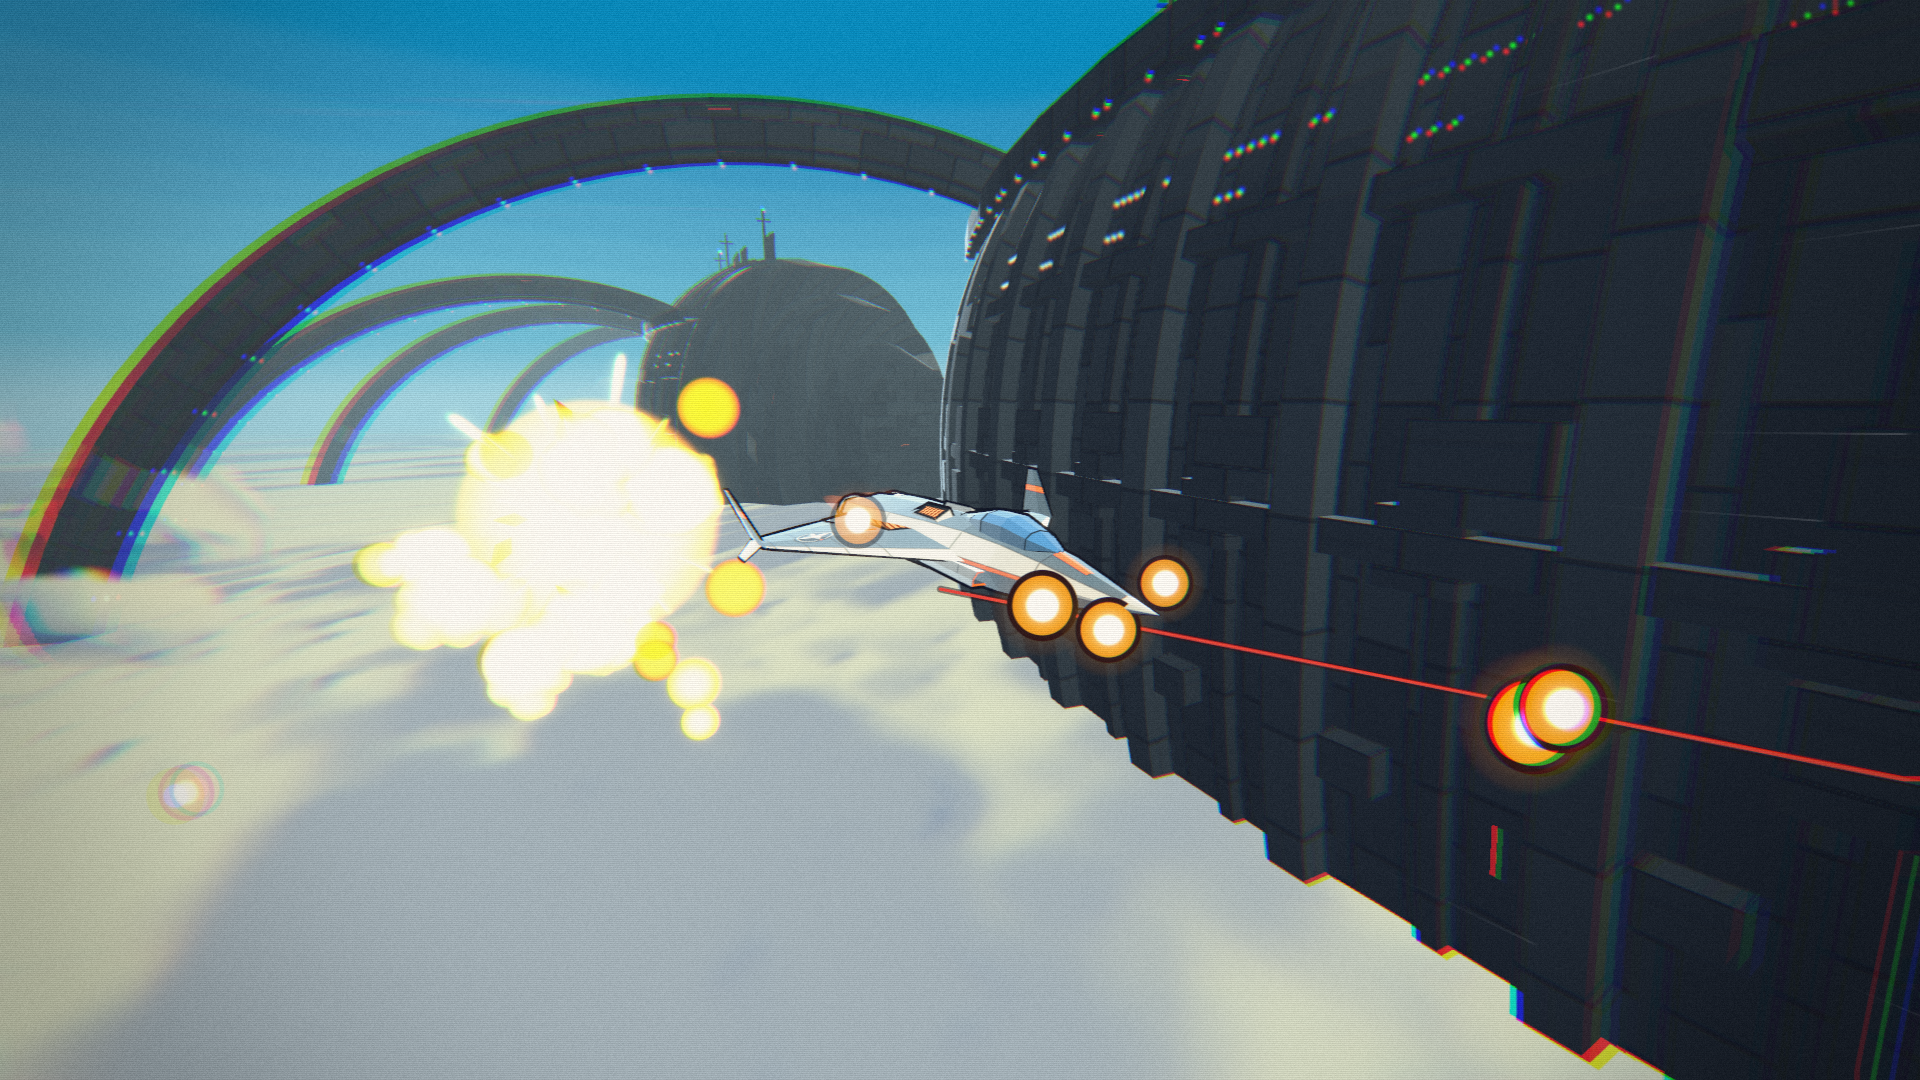
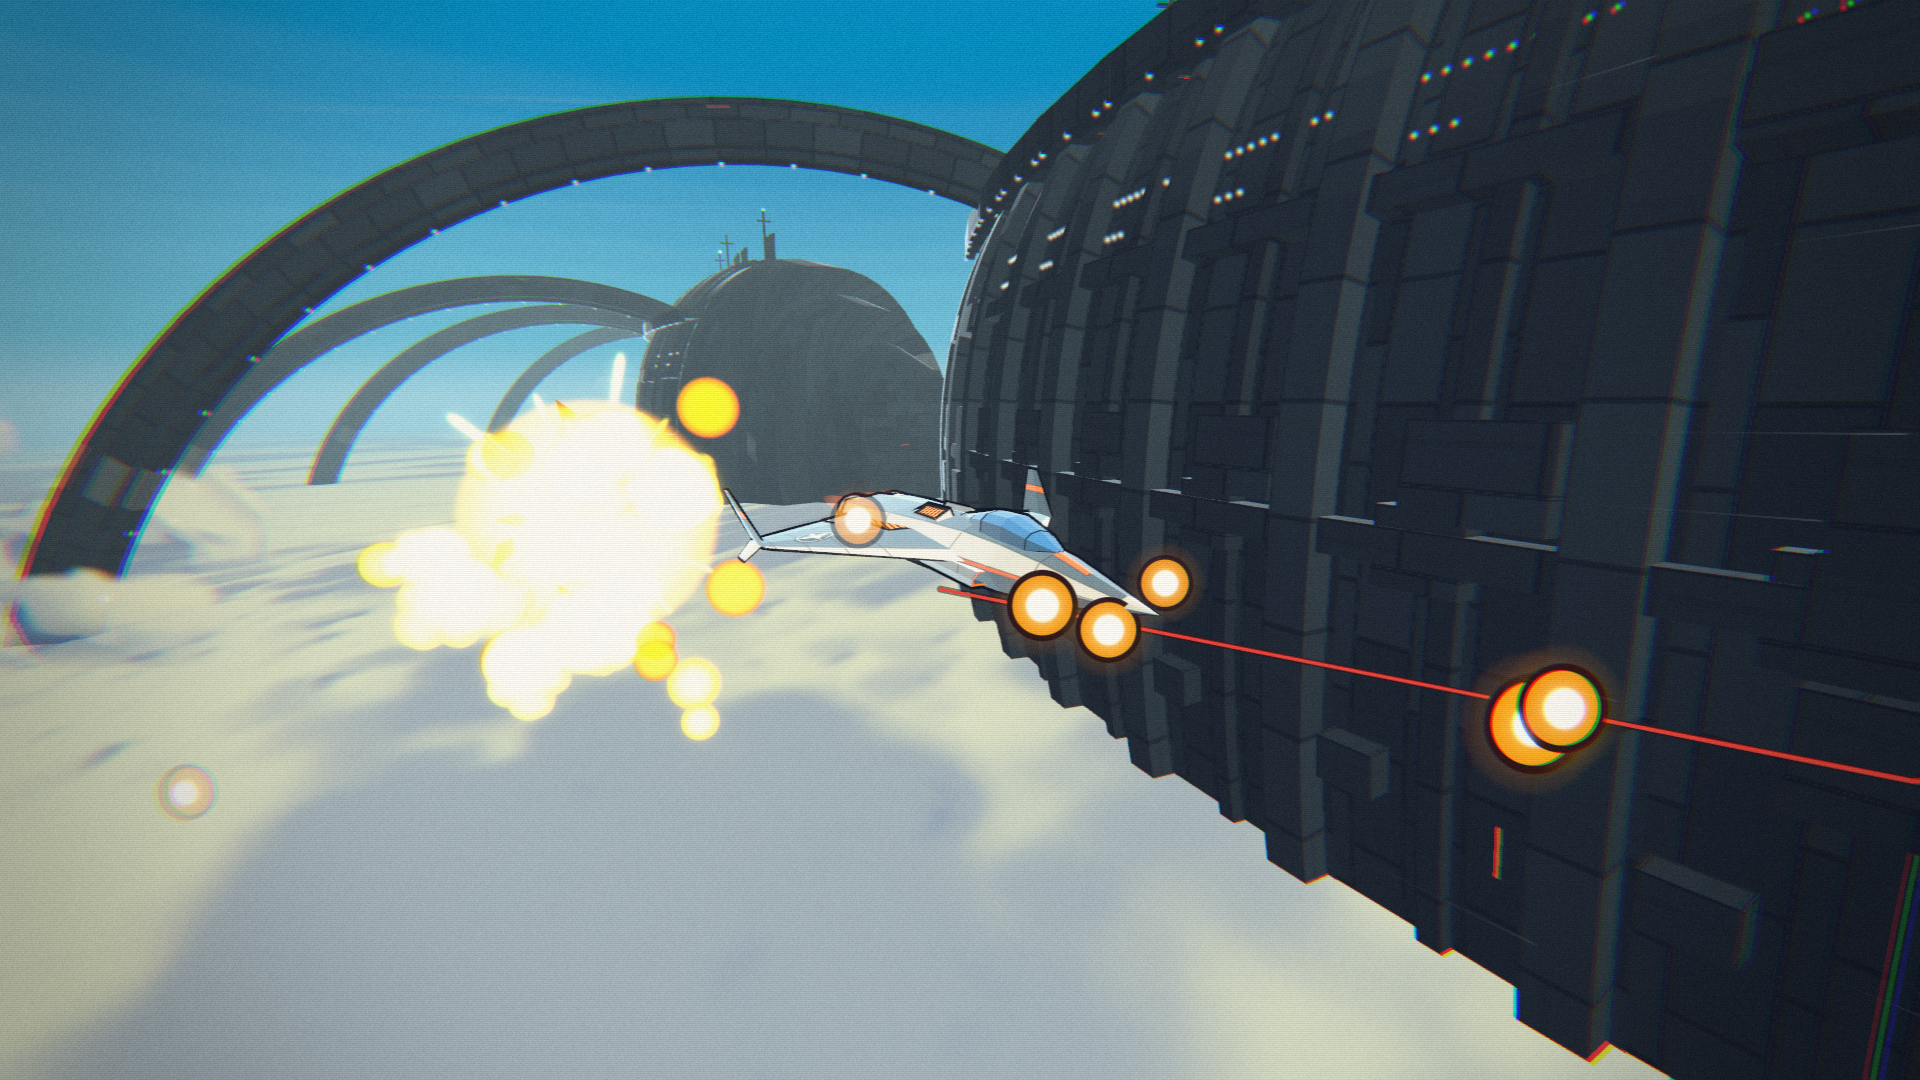
CONTRAIL: round-5 look fixes (lighter chroma pulses, darker Violet Tide sea and fog)
Claude-Session: https://claude.ai/code/session_01Sb5vk8dPPmr8ekyxShV53k

diff --git a/contrail/src/style/tokens.ts b/contrail/src/style/tokens.ts
@@ -168,7 +168,7 @@ export const stages: Record<'cloudgate' | 'violetTide' | 'wreckfield', StageLook
     ambientSky: '#3A2E6E',
     ambientGround: '#5A2F58',
     ambientIntensity: 0.8,
-    fog: { color: '#5E3A74', density: 0.0014, heightFalloff: 0.025, far: '#5C2A55' },
+    fog: { color: '#3E2656', density: 0.0014, heightFalloff: 0.025, far: '#5C2A55' },
     split: {
       dominant: ['sunsetZenith', 'sunsetIndigo'],
       secondary: ['sunsetCloudDark', 'sunsetMagenta'],
@@ -247,7 +247,7 @@ export const post = {
   exposure: 1.0,
   bloom: { threshold: 0.85, strength: 0.6, radius: 0.6 },
   vignette: 0.25,
-  chroma: { base: 0.001, hit: 0.006, ring: 0.008 },
+  chroma: { base: 0.001, hit: 0.003, ring: 0.004 },
   scanlines: { lines: 540, opacity: 0.06 },
   grain: 0.04,
   grade: { lift: '#0A0C18', gamma: 1.0, gain: '#FFF8EC', saturation: 1.08 },

diff --git a/contrail/src/gen/world/sky/params.ts b/contrail/src/gen/world/sky/params.ts
@@ -339,11 +339,11 @@ const vtSea: CloudSeaParams = {
   scale: 300,
   stretchX: 2.6,
   bump: 12,
-  lit: ['sunsetCloudDark', 'sunsetMagenta', 0.3],
+  lit: ['sunsetCloudDark', 'sunsetMagenta', 0.16],
   mid: 'sunsetCloudDark',
   shadow: ['sunsetCloudDark', 'emblemBlack', 0.5],
   rim: ['sunsetHorizon', 'sunsetMagenta', 0.3],
-  backlit: 0.5,
+  backlit: 0.3,
   drift: 1,
   contrast: 2.0,
 };

diff --git a/contrail/Docs/reviews/M2_M4_round4.md b/contrail/Docs/reviews/M2_M4_round4.md
@@ -1,0 +1,136 @@
+# Reviewer — M2 look lock + M4 peak moment (round 4)
+
+Fresh-context review based only on images, the GAME_FORGE section 12 rubric and the STYLE_BIBLE "Current values" table.
+
+**Inputs opened:** all of them opened, so there are no zero scores.
+- **Captures (m2):** cloudgate_hero, cloudgate_combat, violetTide_combat, wreckfield_combat and contact (round 4 sheet, 11:26:45Z).
+- **HUD and title:** the look/approved/hud board and captures/latest/title.
+- **Progress frames:**
+  - m2/112556Z_hero and _combat, 112617Z_combat and 112628Z_combat (the round 4 set).
+  - m2/111922Z_hero and _combat, 111951Z_combat and 112002Z_combat (the round 3 set).
+  - goldpath/112306Z_p50.
+- **Approved boards:** vista-cloudgate, vfx-bullets and hud.
+- **Owner reference 07:** used for relationship only.
+
+Axis 5 (motion) and axis 8 (technical) are out of scope for these gates.
+
+**Key observation (from an md5 check):**
+- `violetTide_combat.png` is byte-identical to round 3's `111951Z_combat`.
+- `wreckfield_combat.png` is byte-identical to round 3's `112002Z_combat`.
+
+Only the two Cloudgate frames changed this round, so two of the three M4 frames carry no new work.
+
+---
+
+## Gate M2 — look lock (Cloudgate hero, environment, HUD)
+
+| # | Axis | Score | Evidence |
+|---|---|---|---|
+| 1 | Board match | **7** | The hero still matches hero B (light livery, orange nose band and vents, blue canopy, ink outline; ≈ 725-1160, 490-615), and the hull and arches match structures B. The hero-frame sky is still a flat cloud sea with no cumulus towers, far from vista-cloudgate C, even though goldpath p50 shows the game can render those towers. |
+| 2 | Readability | **5** | The hero reads at a glance in both frames. In cloudgate_combat about 25 rounds still pile onto the reticle (≈ 650-1085, 400-630), so the STRIDER named in TGT shows only as tiny darts at the edge of the pile (≈ 730, 500; 820-1000, 410-440). In the hero frame four rounds sit on top of the wing and nose (≈ 1000-1190, 560-660). |
+| 3 | Lighting & colour | **6** | Palette discipline holds: sky.day blue, cream cloud, near-black hull, warm and cool split on the craft. This round adds heavy RGB chromatic fringing, about 8-12 px of separate red, green and blue edges, on the near arch and cloud edge (hero ≈ 0-330, 100-650) and on the hull edge (≈ 1690-1760, 650-780), which reads as a post error rather than post A. The hull lights still show RGB triplets, and the hull silhouette in combat still has no rim. |
+| 4 | Depth & composition | **7** | The hero frame keeps its strong recession (hull wall, three arches, domed hull on the horizon), and the new burst now occupies the upper-left mid-ground. The lower-left ≈ 35% is still empty cloud. In combat the hull, rounds, reticle and hero still stack in one centre column. |
+| 6 | UI clarity & polish | **7** | The HUD is unchanged from round 3 and matches hud C: the perimeter is legible and the single "HULL -16" popup works. The TGT HP bar is still full at LOCK 0/6 with no lock brackets (the hud board shows red corner brackets with lock counts), and the hazard stripe under CLOUDGATE has no legend. |
+| 7 | Juice & finish | **7** | This round's gain: the hero frame now has a hot yellow burst with spark petals and ember puffs (≈ 360-760, 380-740) plus a hostile tracer, and cloudgate_combat adds an R/G/B shock ring and flame on the hero (≈ 945-1185, 540-660) next to the fired beam. There is still no enemy hit flash, player fire or speed streaks. |
+
+**Average: 39 / 6 = 6.50. No axis is below 5, but the average is under 7, so M2 FAILS.**
+
+---
+
+## Gate M4 — peak moment (wreckfield_combat boss, cloudgate_combat, violetTide_combat)
+
+| # | Axis | Score | Evidence |
+|---|---|---|---|
+| 1 | Board match | **7** | The BULWARK matches enemies B, and the twin yellow telegraph lines match vfx-beam. Violet matches vista-violet C, and its ring has three separated bands. The boss rounds are still a rigid 11 + 11 double row (≈ 725-1245, 425-545), unlike the scattered field on vfx-bullets B. |
+| 2 | Readability | **6** | The five Violet shooters are visible on the horizon (≈ 1090-1260, 480-500), and the boss silhouette is clean. But the boss rounds form a solid wall across the reticle and the boss belly, and the Cloudgate strider is still buried under its own fire. |
+| 3 | Lighting & colour | **7** | Each stage has one key light (planet upper right, low violet sun, high Cloudgate sun), and the bright-to-dark swing across stages holds. The Violet cloud sea is still a mid-value rose (lower third ≈ 30-40% luminance) against the bible's dark sunset (#5C2A55, median luminance under 6%). |
+| 4 | Depth & composition | **6** | The boss frame is unchanged: flat-on and symmetric, with bullet rows parallel to the frame. It reads as a wall, not the overhanging, cropped scale of ref 07. Violet stays well balanced. |
+| 6 | UI clarity & polish | **7** | Violet's CONTACTS 11 matches the visible enemies, and there is no damage log. The boss health sliver still sits inside the upper bullet row, over the reticle (≈ 910-1140, 457), and no combat frame shows lock brackets. |
+| 7 | Juice & finish | **6** | The Violet explosion and the new Cloudgate hit ring carry this axis. The boss frame, which should be the gate's centrepiece, still shows only a telegraph and lit emitters: no fired beam, hit flash, explosion or smoke. |
+
+**Average: 39 / 6 = 6.50. No axis is below 5, but the average is under 7, so M4 FAILS.**
+
+---
+
+## Paired comparison against round 3
+
+| Gate | Round 1 | Re-gate | Round 3 | Round 4 | Trend |
+|---|---|---|---|---|---|
+| M2 | 6.33 | 6.33 | 6.50 | **6.50** | Flat. Juice rose (+1) but lighting fell (-1) because of the new chromatic fringing. |
+| M4 | 6.00 | 6.00 | 6.50 | **6.50** | Flat. Two of the three frames are byte-identical to round 3. |
+
+**Which is better, frame by frame:**
+- **cloudgate_hero, round 4 vs 111922Z:** round 4 is better on spectacle, because the burst fills the mid-ground and the hero now sits inside the action. Round 3 is cleaner: less RGB fringing, and no rounds pasted over the hero. Net: round 4 is slightly better, provided the fringing is removed.
+- **cloudgate_combat, round 4 vs 111922Z:** round 4 is slightly better. The hero hit ring and flame are new feedback, and the pile has moved off the hero. The round pile over the reticle is essentially the same size.
+- **violetTide and wreckfield:** identical to round 3, so no change.
+
+---
+
+## Top 5 defects (ranked by visual impact)
+
+### D-1 — Boss peak frame unchanged: bullet wall, no payoff [high]
+- **Capture:** wreckfield_combat.png (byte-identical to round 3's 112002Z_combat).
+- **Expected:**
+  - A peak moment at the scale of ref 07: a fired beam or a hit on the boss (flash, sparks, smoke).
+  - Boss fire as a scattered field per vfx-bullets B.
+  - A boss framed off-axis so it overhangs the frame.
+- **Actual:**
+  - A symmetric flat-on boss.
+  - An 11 + 11 rigid double row of rounds (≈ 725-1245, 425-545) over the reticle.
+  - A telegraph only, with no fired beam or hit.
+  - The HP sliver buried in the upper row.
+- **Suggested fix:**
+  - Capture at the moment the beam fires, or during the boss's hit reaction.
+  - Break the fire pattern into staggered arcs with depth spread.
+  - Tilt or offset the camera so a wing crops the frame edge.
+  - Move the boss HP bar to the top band, or above the boss.
+- **Owner lane:** Director/capture (moment choice), plus the enemies and vfx lanes.
+
+### D-2 — Cloudgate fire pile buries the target, and there is no lock language [high]
+- **Capture:** cloudgate_combat.png.
+- **Expected:** Per the hud board: red corner brackets and lock counts on targets, the STRIDER readable as a silhouette, and hostile rounds separable.
+- **Actual:**
+  - About 25 rounds overlap in one clump over the reticle (≈ 650-1085, 400-630).
+  - The strider is visible only as tiny darts at its edge.
+  - There are no brackets.
+  - TGT HP shows full at LOCK 0/6.
+- **Suggested fix:**
+  - Lower the strider's burst count, or spread its emission cone.
+  - Offset the capture time until the strider is clear of its own volley.
+  - Always draw the target bracket on the enemy named in TGT (hide the TGT HP bar when nothing is locked).
+- **Owner lane:** Director (encounter and capture) and the HUD lane.
+
+### D-3 — Heavy RGB chromatic fringing in the hero shot [medium-high]
+- **Capture:** cloudgate_hero.png (new this round) and, to a lesser degree, cloudgate_combat.png.
+- **Expected:** Light post A: at most a 1-2 px colour fringe at the frame edges. Hull lights as single warm or white points.
+- **Actual:**
+  - 8-12 px red, green and blue edges on the near arch and cloud rim (≈ 0-330, 100-650) and on the hull edge (≈ 1690-1760, 650-780).
+  - The hull lights still render as RGB triplets.
+  - The effect reads as a broken render, not as analogue grade.
+- **Suggested fix:**
+  - Clamp the chromatic-aberration offset, scaled by radius, to the post A board value.
+  - Check whether the hero camera or FOV multiplies the offset.
+  - Exclude small emissive points from the separation.
+- **Owner lane:** post lane.
+
+### D-4 — Cloudgate hero sky is a flat cloud sea, not the Cloudgate C corridor [medium]
+- **Capture:** cloudgate_hero.png.
+- **Expected:** vista-cloudgate C's cumulus towers and horizon banks behind the arches. goldpath p50 proves the stage can render them.
+- **Actual:**
+  - A featureless cream plane fills the whole lower half.
+  - There are no towers behind the arches.
+  - The lower-left ≈ 35% of the frame is empty.
+- **Suggested fix:**
+  - Choose a hero camera time and path segment that has cumulus in view, or place 2-3 tower clusters along the arch corridor.
+  - Let a tower or smoke trail occupy the lower-left.
+- **Owner lane:** environment lane (Cloudgate), plus Director (hero camera).
+
+### D-5 — Violet Tide cloud sea too bright for the "dark sunset" rule [medium]
+- **Capture:** violetTide_combat.png (unchanged since round 3).
+- **Expected:** Far fog #5C2A55, median luminance under 6%, and a dark indigo cloud sea under the narrow orange horizon.
+- **Actual:** The lower third is a mid-value rose (≈ 30-40% luminance), which flattens the bright-to-dark drama and lowers the contrast of the hero's orange livery.
+- **Suggested fix:**
+  - Darken the cloud-sea albedo and fog toward indigo #2A1F5A.
+  - Keep the magenta highlight only on sun-facing crests.
+  - Re-measure the median luminance.
+- **Owner lane:** environment lane (Violet Tide).

diff --git a/contrail/Docs/DECISIONS.md b/contrail/Docs/DECISIONS.md
@@ -99,3 +99,5 @@ Missile regen 12 s -> 4 s [A] (barrages were rare: 0/6 ammo in every frame; Clou
 
 ## 2026-09-30T11:27Z — Strider volley one row of 9 (was 2 rows of 7) so fire does not wall off the shooter; combat camera stops on a firing beam or >= 3 locks
 Cloudgate goldpath after the change: rank A, shield 56 (A15 challenge still met).
+
+## 2026-09-30T11:29Z — Round-5: chroma hit/ring 0.006/0.008 -> 0.003/0.004 (fringing too heavy in hero shots); Violet Tide sea lit mix 0.3 -> 0.16, backlit 0.5 -> 0.3, fog #5E3A74 -> #3E2656 (dark-sunset rule)
